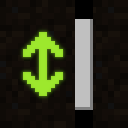
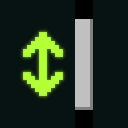
Backport to 1.20, 1.20.1
Also update icon, fabric mod name

Changed region(s): [[0.1875, 0.25, 0.5, 0.75], [0.2812, 0.6875, 0.3125, 0.7188], [0.2812, 0.2812, 0.3125, 0.3125]]

diff --git a/src/main/java/me/wolfii/mixin/EntryListWidgetMixin.java b/src/main/java/me/wolfii/mixin/EntryListWidgetMixin.java
@@ -70,21 +70,26 @@ public abstract class EntryListWidgetMixin {
         animationTimer = 0;
     }
 
-    @Redirect(method = "render", at=@At(value="INVOKE", target = "Lnet/minecraft/client/gui/DrawContext;drawGuiTexture(Lnet/minecraft/util/Identifier;IIII)V"))
-    private void modifyScrollbar(DrawContext instance, Identifier texture, int x, int y, int width, int height) {
+    @Redirect(method = "render", at=@At(value="INVOKE", target = "Lnet/minecraft/client/gui/DrawContext;fill(IIIII)V", ordinal = 1))
+    private void modifyScrollbar(DrawContext instance, int x1, int y1, int x2, int y2, int color) {
+        int height = y2 - y1;
         if(scrollAmount < 0) {
-            height -= dampenSquish(Math.abs(scrollAmount), height);
+            y2 -= dampenSquish(Math.abs(scrollAmount), height);
         }
-        if(y + height > bottom) {
-            y = bottom - height;
+        if(y1 + height > bottom) {
+            y2 = bottom;
+            y1 = bottom - height;
         }
         if (scrollAmount > getMaxScroll()) {
             int squish = dampenSquish(scrollAmount - getMaxScroll(), height);
-            y += squish;
-            height -= squish;
+            y1 += squish;
         }
-        instance.drawGuiTexture(texture, x, y, width, height);
+        instance.fill(x1, y1, x2, y2, color);
+        instance.fill(x1, y1, x2 - 1, y2 - 1, -4144960);
     }
+
+    @Redirect(method = "render", at=@At(value="INVOKE", target = "Lnet/minecraft/client/gui/DrawContext;fill(IIIII)V", ordinal = 2))
+    private void cancelScrollbarForeground(DrawContext instance, int x1, int y1, int x2, int y2, int color) {}
 
     @Unique
     private int dampenSquish(double squish, int height) {
